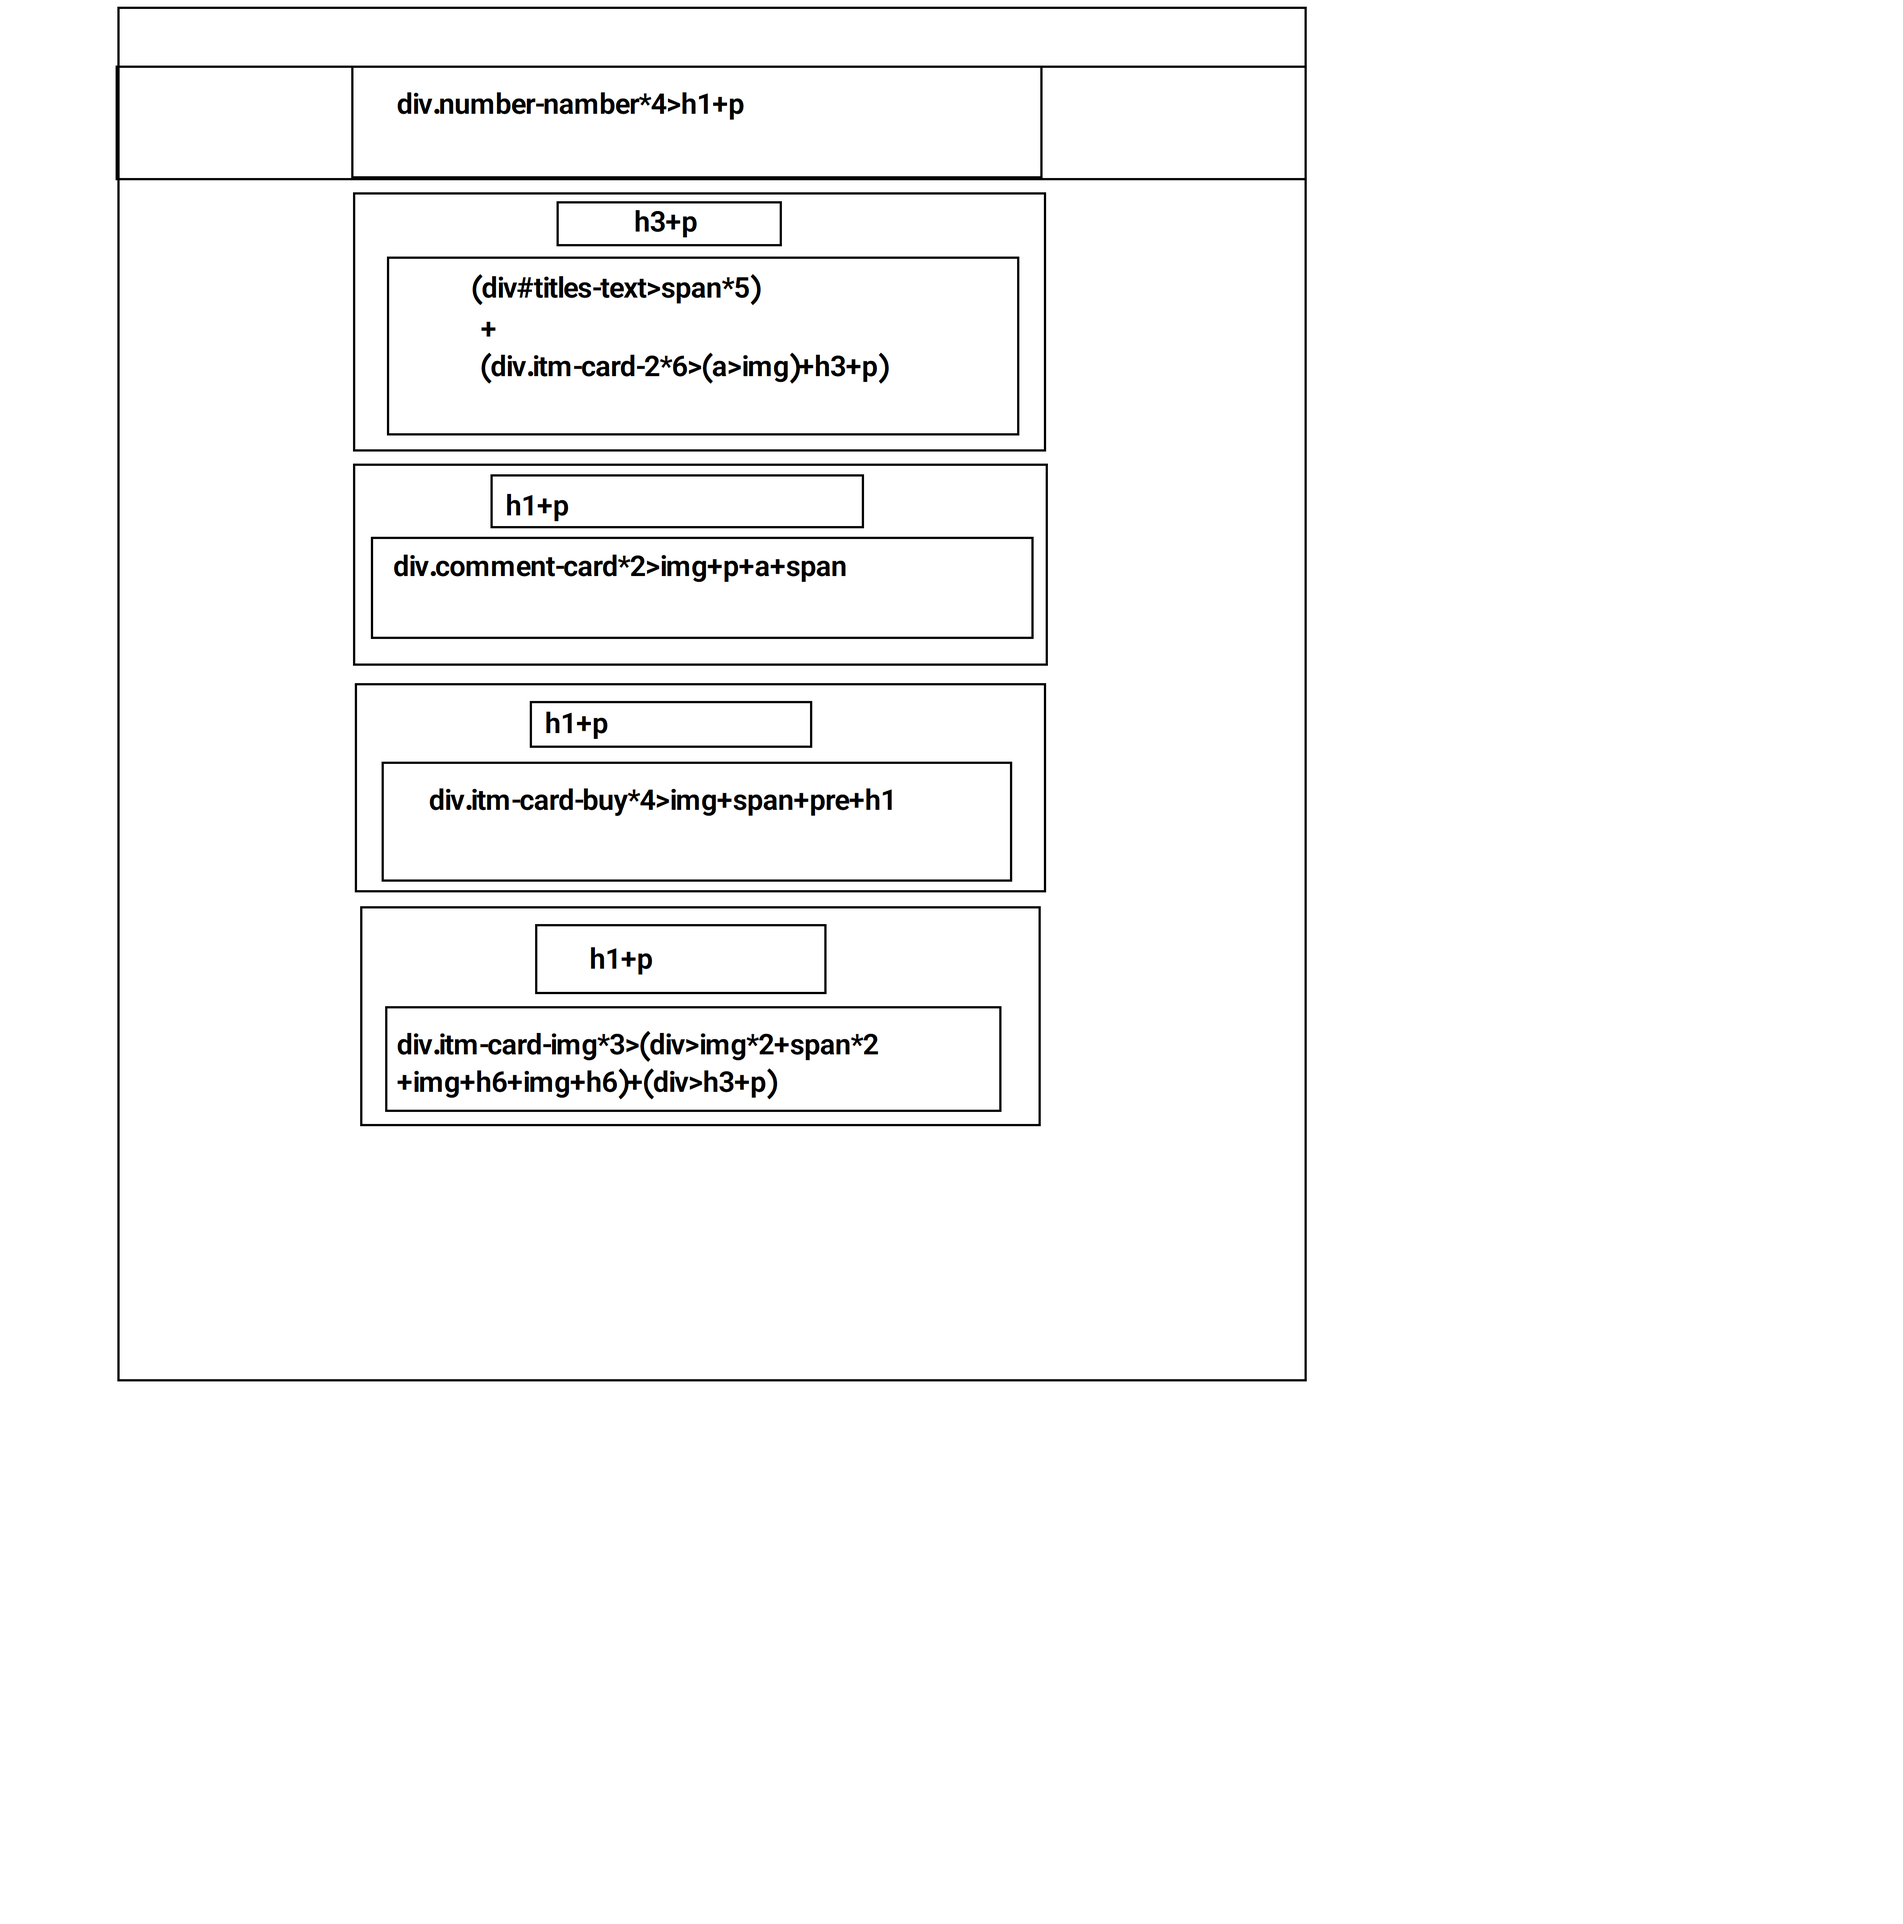
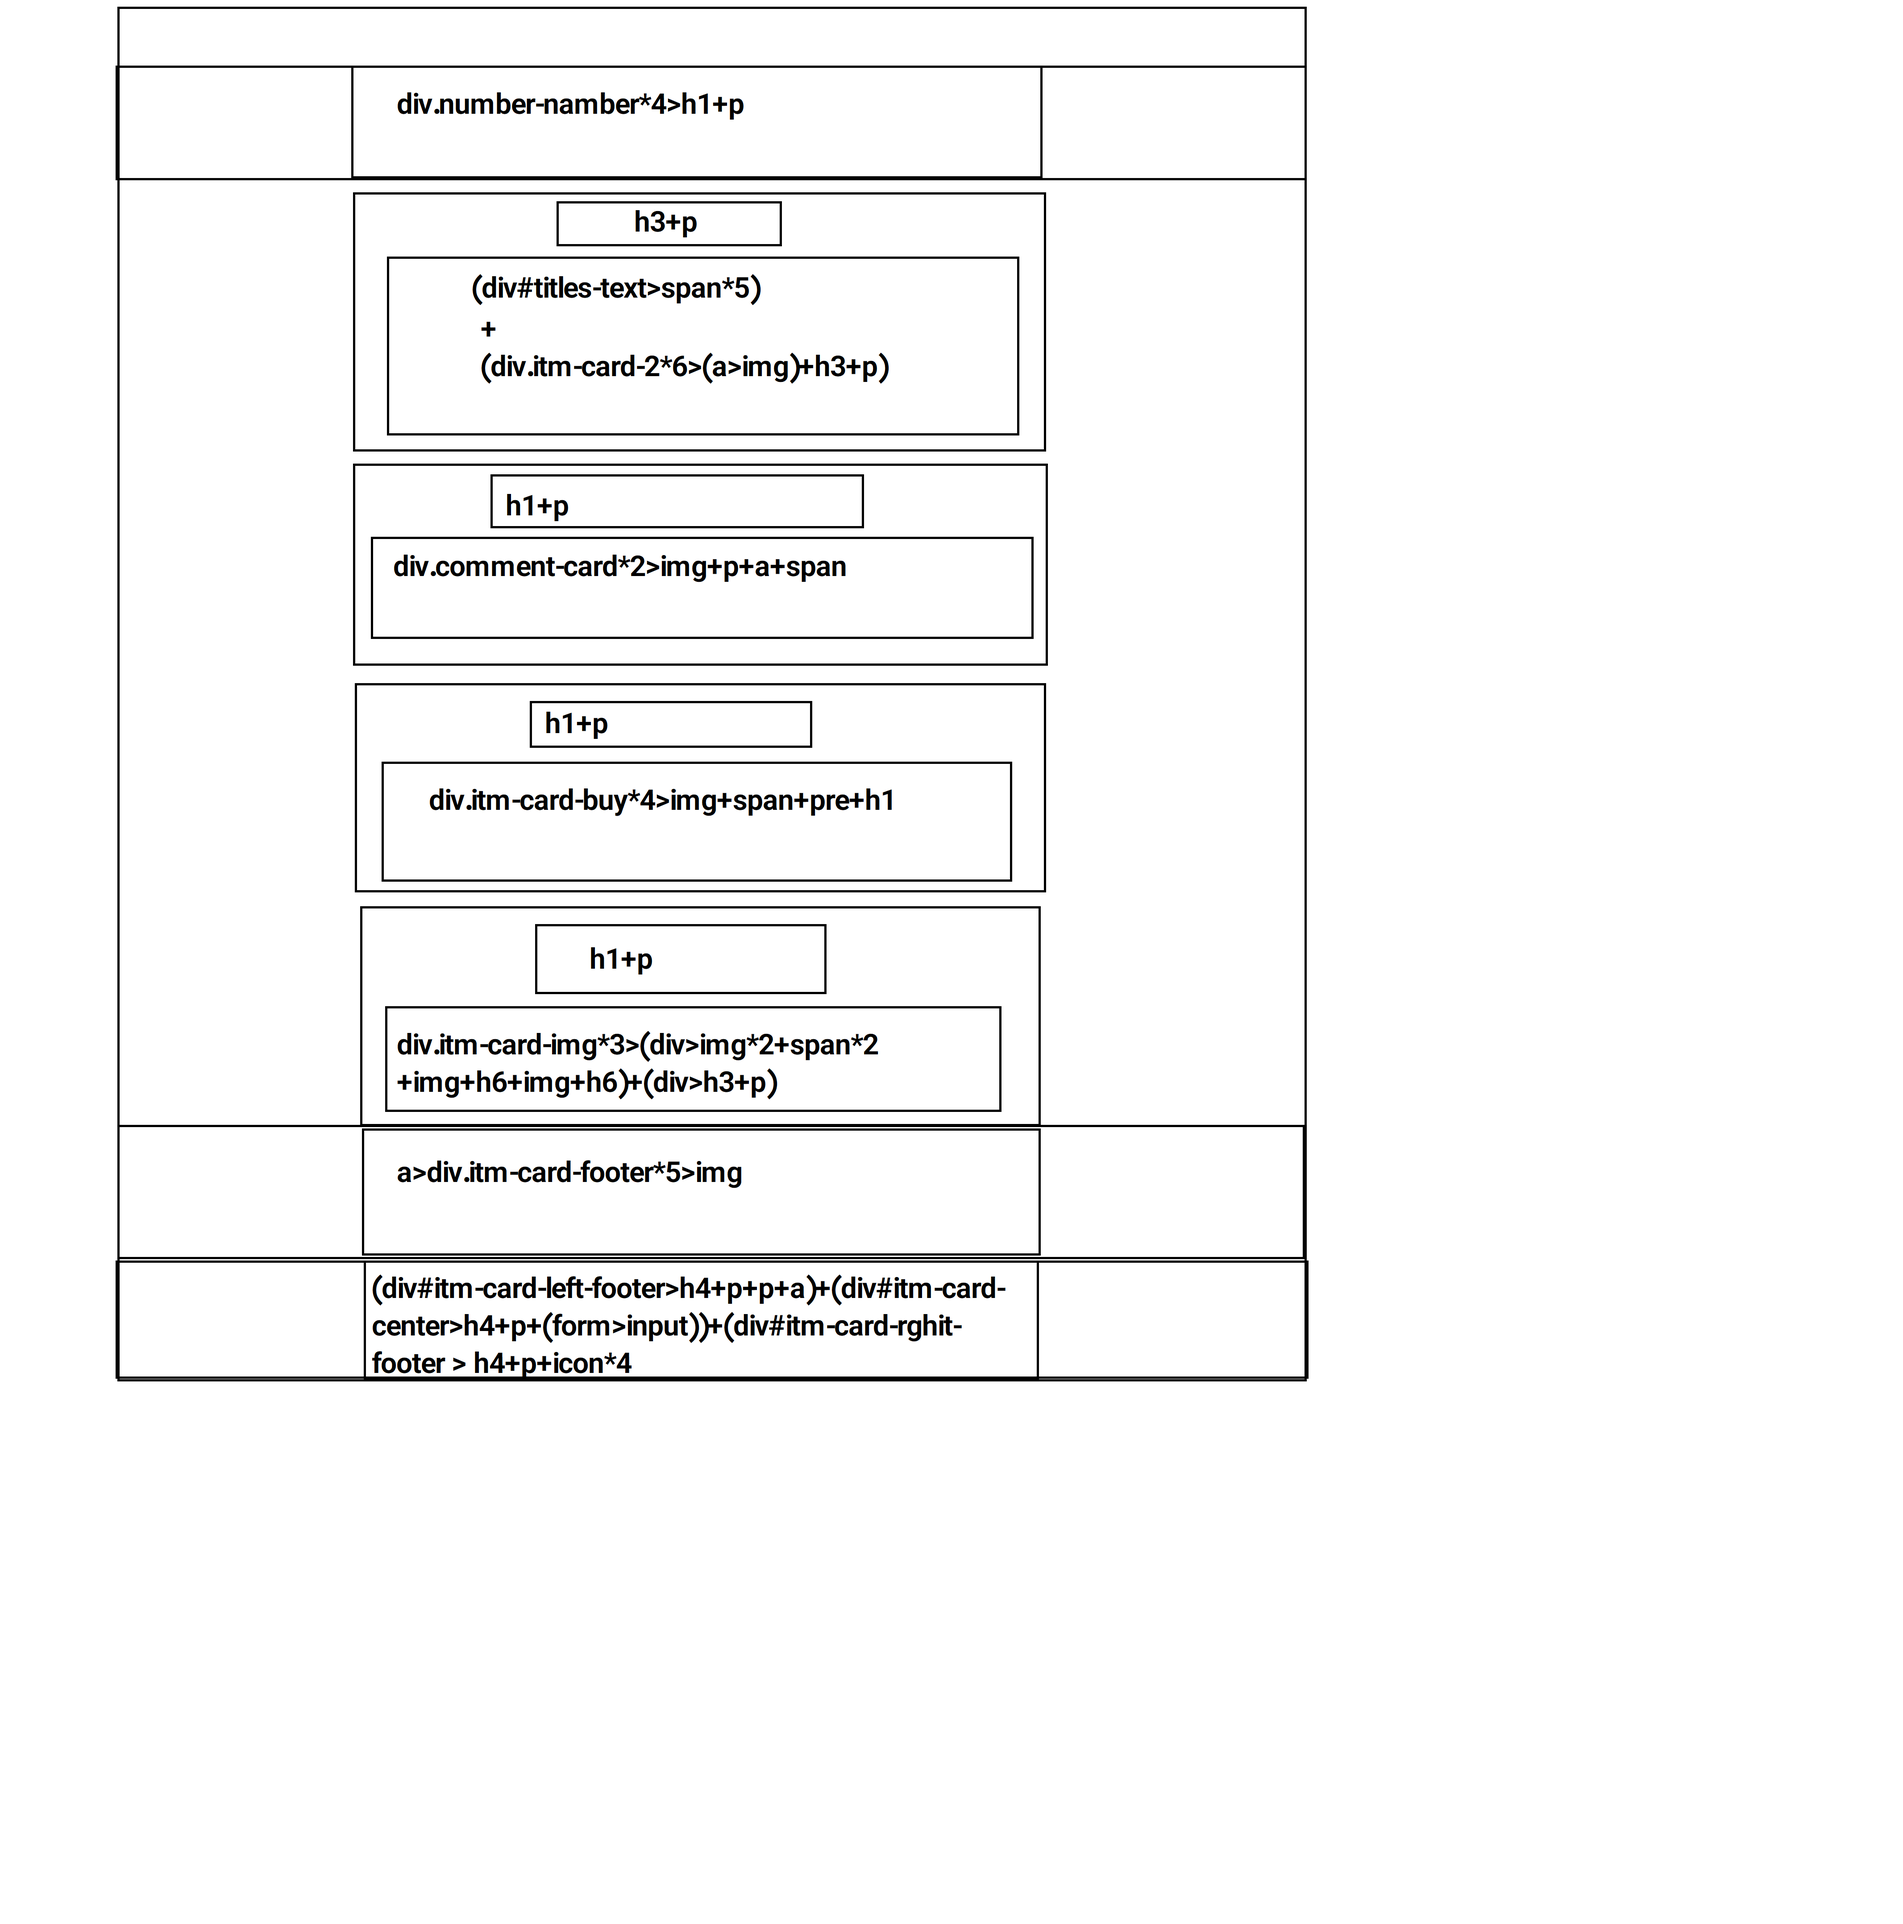
fix and add footer code skach

Changed region(s): [[0.1871, 0.6526, 0.5614, 0.7147], [0.2183, 0.5904, 0.3743, 0.6215]]

diff --git a/style.css b/style.css
@@ -654,12 +654,16 @@ header>div>ul>li ul li:hover a{
     margin-top: 150px;
 }
 .itm-card-footer{
-    margin: 74px 0;
+    margin: 74px 0 0 0;
+    opacity: 50%;
 }
 .itm-card-footer:nth-of-type(1),
 .itm-card-footer:nth-of-type(2),
 .itm-card-footer:nth-of-type(3){
     margin-right:72px ;
+}
+.itm-card-footer:hover{
+    opacity: 100%;
 }
 /* footer section 1 end */
 /* footer end */
